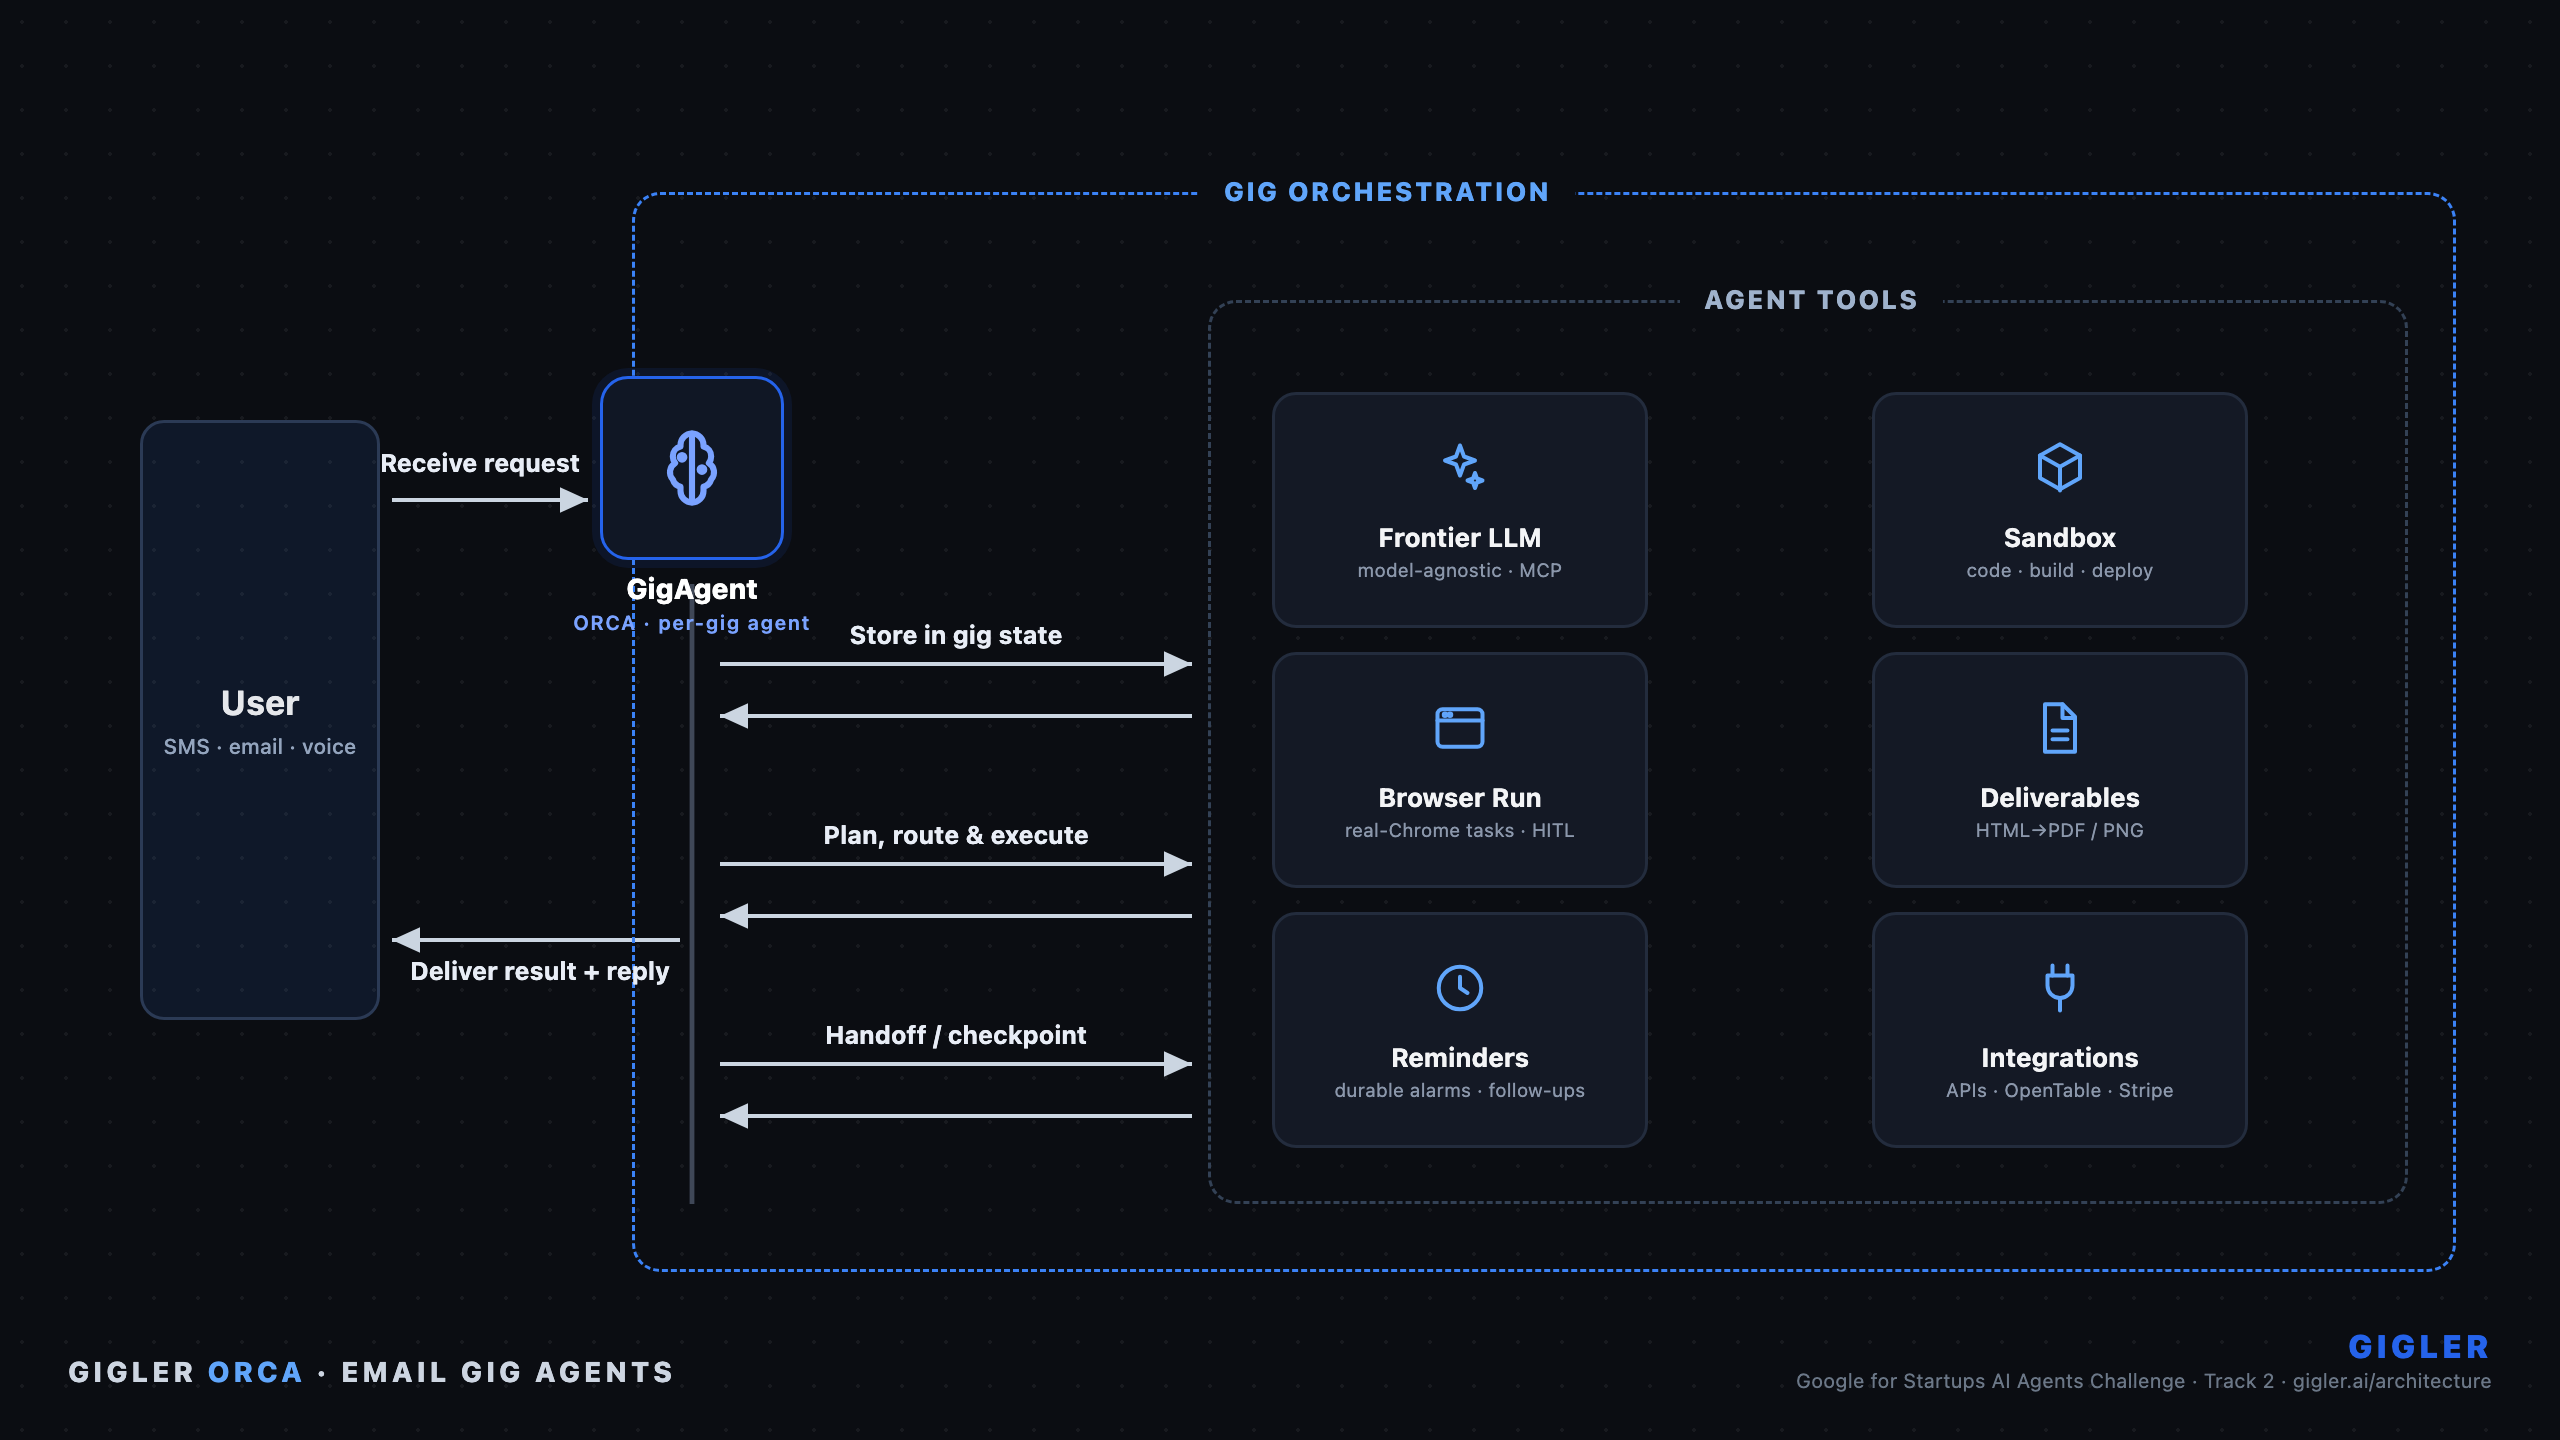
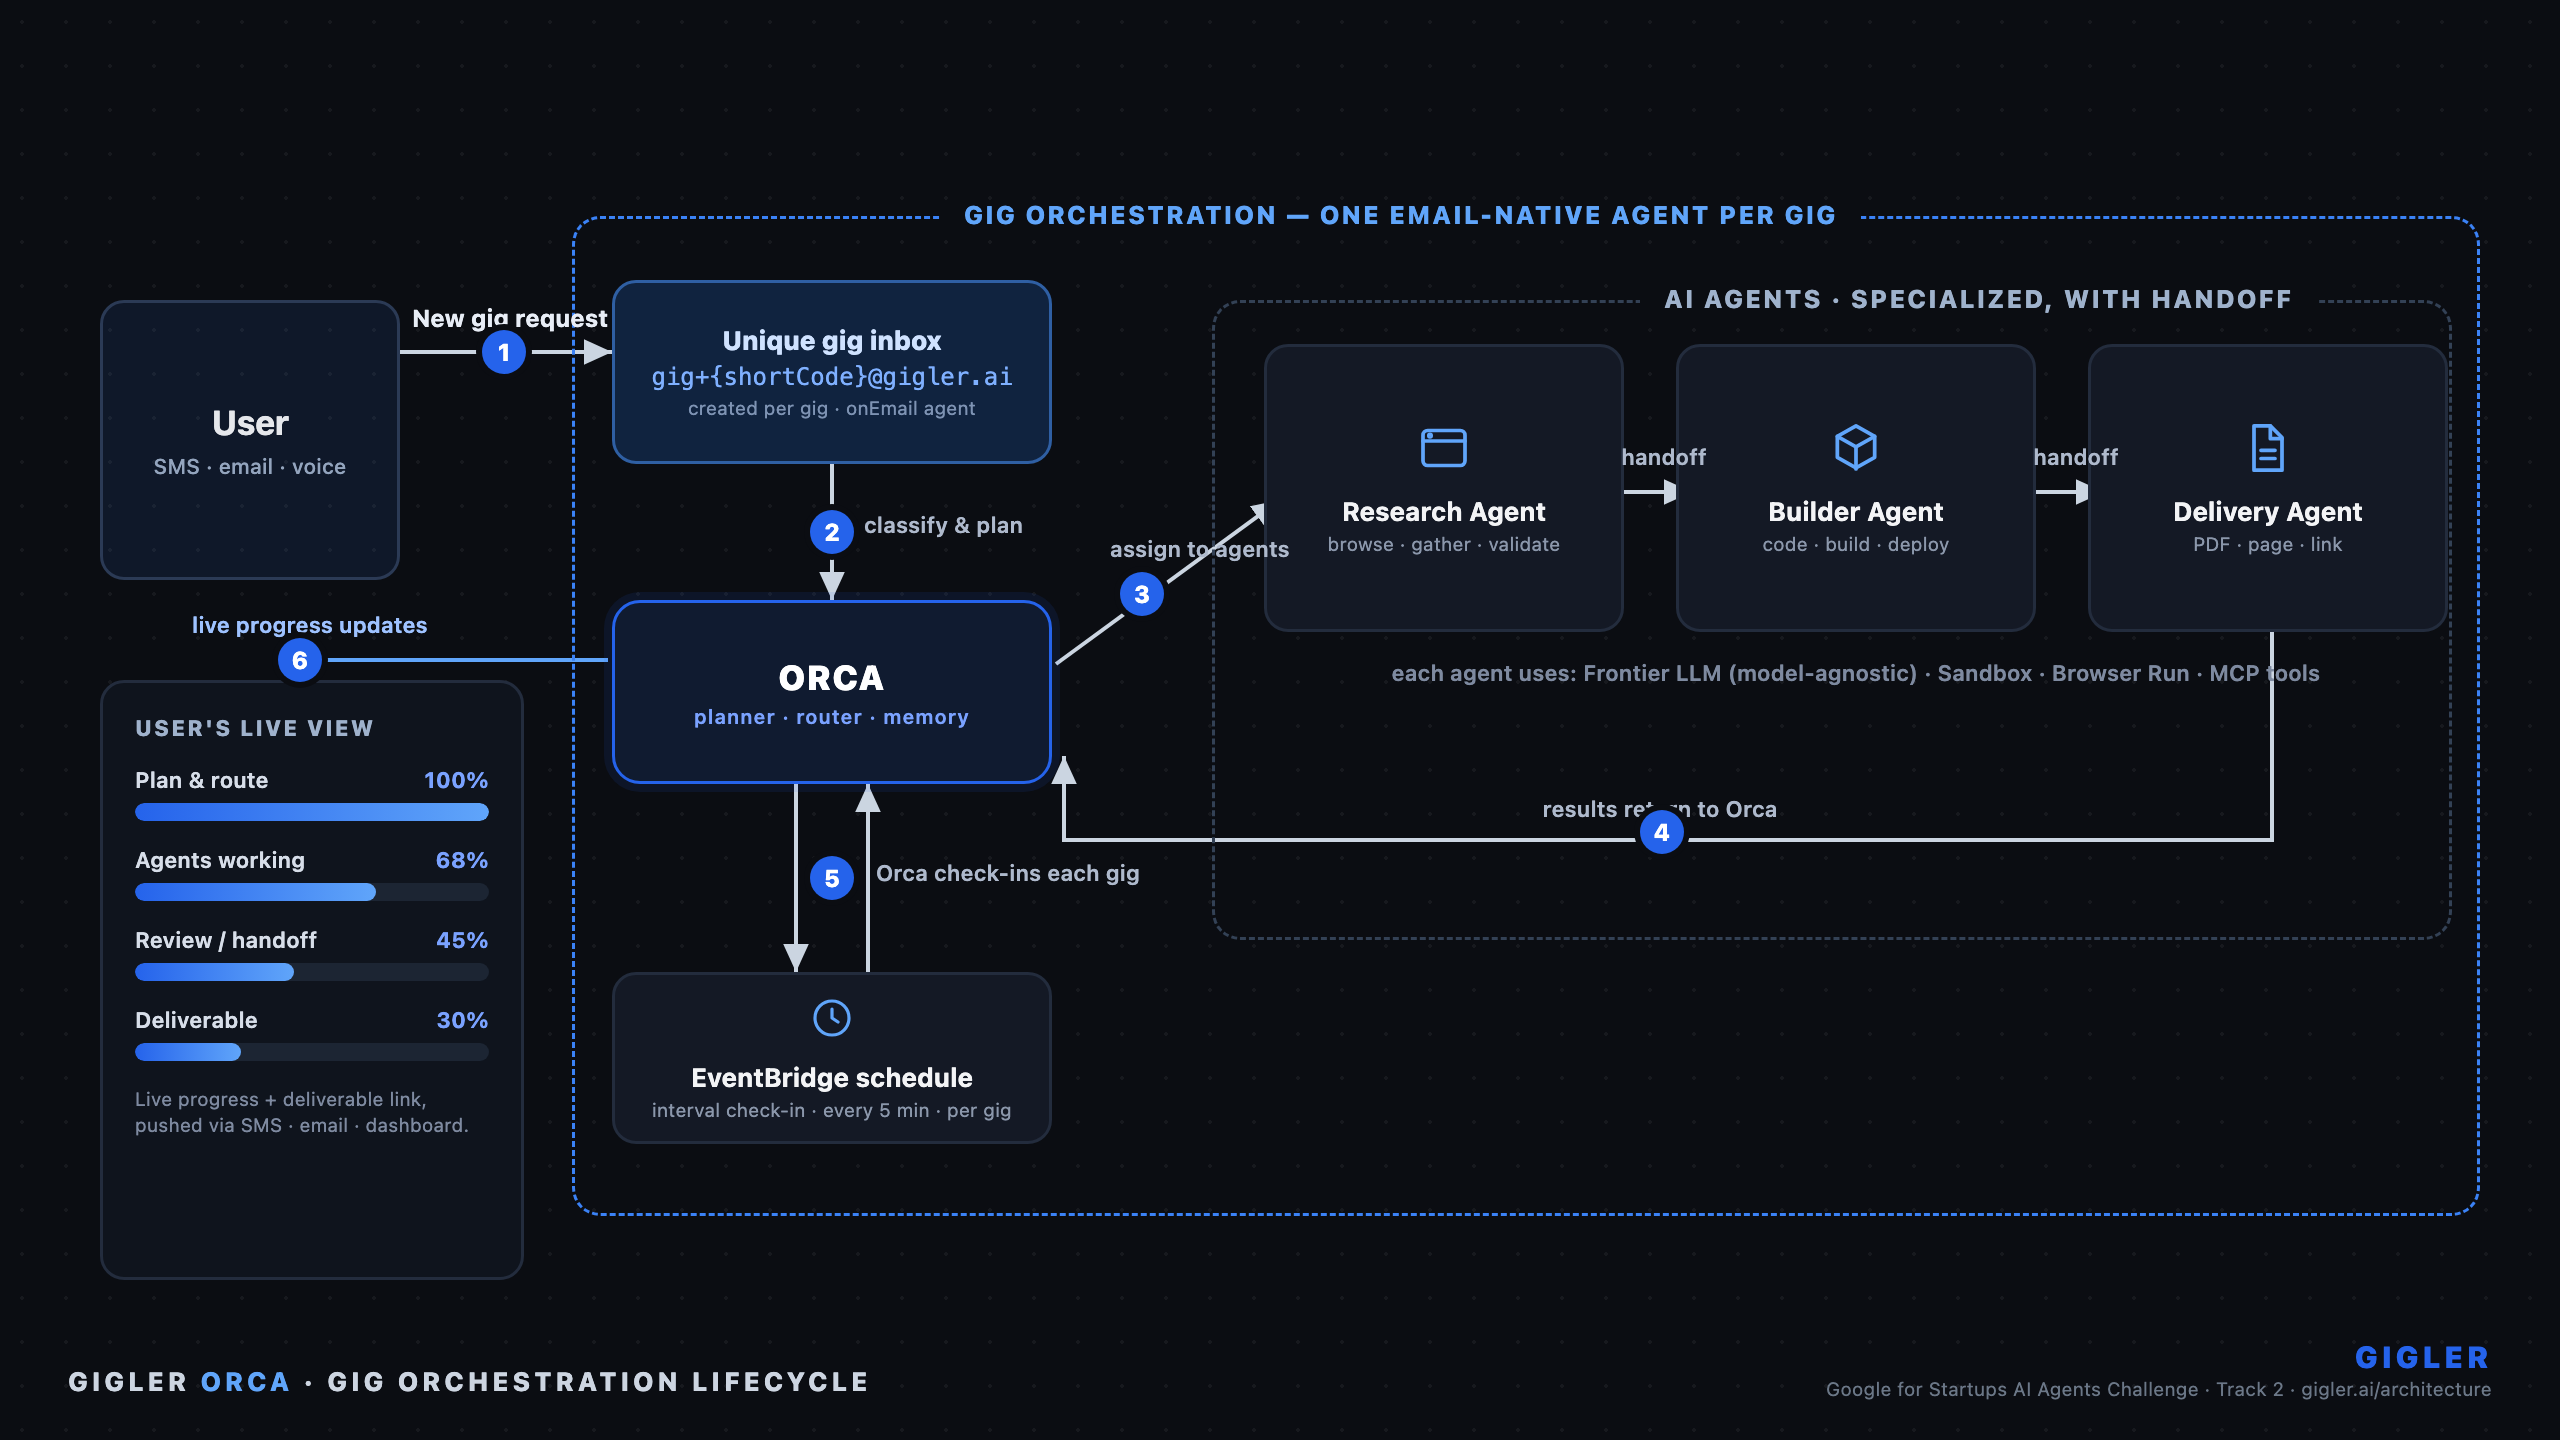
Detail the technical diagram with the full gig orchestration lifecycle
Show the end-to-end flow: new gig request -> unique per-gig email inbox ->
Orca classifies, plans & assigns -> specialized AI agents with handoff
(Research -> Builder -> Delivery) -> results return to Orca -> EventBridge
interval check-ins per gig -> live progress bars + deliverable to the user.

diff --git a/architecture/gigler-orca-tech-diagram.html b/architecture/gigler-orca-tech-diagram.html
@@ -2,7 +2,7 @@
 <html lang="en">
 <head>
 <meta charset="UTF-8">
-<title>Gigler Orca — Email Gig Agents Flow</title>
+<title>Gigler Orca — Gig Orchestration Lifecycle</title>
 <style>
   @page { size: 13.333in 7.5in; margin: 0; }
   * { margin: 0; padding: 0; box-sizing: border-box; -webkit-print-color-adjust: exact; print-color-adjust: exact; }
@@ -10,151 +10,169 @@
   .mono { font-family: "SF Mono", Menlo, Consolas, monospace; }
 
   .stage {
-    position: relative;
-    width: 1280px; height: 720px;
+    position: relative; width: 1280px; height: 720px;
     background-color: #0b0d12;
-    background-image: radial-gradient(rgba(255,255,255,0.055) 1px, transparent 1px);
+    background-image: radial-gradient(rgba(255,255,255,0.05) 1px, transparent 1px);
     background-size: 22px 22px;
-    color: #e5e7eb;
-    overflow: hidden;
+    color: #e5e7eb; overflow: hidden;
   }
+  svg.wires { position: absolute; left: 0; top: 0; width: 1280px; height: 720px; }
 
   .grp { position: absolute; border: 1.6px dashed #3b82f6; border-radius: 14px; }
-  .grp-title { position: absolute; padding: 0 12px; background: #0b0d12; font-size: 13px; font-weight: 800; letter-spacing: 1.2px; text-transform: uppercase; color: #60a5fa; }
+  .grp-title { position: absolute; padding: 0 12px; background: #0b0d12; font-size: 12.5px; font-weight: 800; letter-spacing: 1.1px; text-transform: uppercase; color: #60a5fa; }
 
-  .userbox {
-    position: absolute; border-radius: 12px;
-    background: rgba(59,130,246,0.10); border: 1.5px solid #2b3a55;
-    display: flex; align-items: center; justify-content: center;
-    font-size: 17px; font-weight: 700; color: #e5e7eb; letter-spacing: 0.3px; text-align: center;
-  }
-  .userbox .sub { display:block; font-size: 10.5px; font-weight: 500; color: #93a4bd; margin-top: 6px; letter-spacing: 0; }
+  .box { position: absolute; border-radius: 12px; background: #141925; border: 1.5px solid #232c3d; display: flex; flex-direction: column; align-items: center; justify-content: center; text-align: center; }
+  .box .ic { margin-bottom: 7px; }
+  .box .lab { font-size: 13px; font-weight: 700; color: #f3f4f6; line-height: 1.15; }
+  .box .sub { font-size: 9.5px; color: #8b97ab; margin-top: 3px; line-height: 1.25; }
 
-  .tile {
-    position: absolute; border-radius: 12px;
-    background: #141925; border: 1.5px solid #232c3d;
-    display: flex; flex-direction: column; align-items: center; justify-content: center; text-align: center;
-  }
-  .tile .ic { margin-bottom: 9px; }
-  .tile .lab { font-size: 13px; font-weight: 700; color: #f3f4f6; line-height: 1.15; }
-  .tile .sub { font-size: 9.5px; color: #8b97ab; margin-top: 3px; line-height: 1.2; }
+  .userbox { position: absolute; border-radius: 12px; background: rgba(59,130,246,0.10); border: 1.5px solid #2b3a55; display: flex; flex-direction: column; align-items: center; justify-content: center; text-align: center; }
+  .userbox .lab { font-size: 17px; font-weight: 700; color: #e5e7eb; }
+  .userbox .sub { font-size: 10.5px; font-weight: 500; color: #93a4bd; margin-top: 6px; }
 
-  .agent {
-    position: absolute; border-radius: 14px;
-    background: #101725; border: 1.6px solid #2563eb;
-    display: flex; align-items: center; justify-content: center;
-    box-shadow: 0 0 0 4px rgba(37,99,235,0.10);
-  }
-  .agent-label { position: absolute; text-align: center; font-size: 14px; font-weight: 800; color: #fff; }
-  .agent-label .sub { display:block; font-size: 10px; font-weight: 600; color: #7aa2ff; margin-top: 3px; letter-spacing: 0.6px; }
+  .emailnode { position: absolute; border-radius: 12px; background: #10233f; border: 1.6px solid #2f5fa3; display: flex; flex-direction: column; align-items: center; justify-content: center; text-align: center; }
+  .emailnode .lab { font-size: 13px; font-weight: 800; color: #cfe2ff; }
+  .emailnode .addr { font-size: 12px; color: #7fb0ff; margin-top: 4px; }
+  .emailnode .sub { font-size: 9.5px; color: #7e93b3; margin-top: 3px; }
 
-  .albl { position: absolute; text-align: center; font-size: 12.5px; font-weight: 700; color: #e8edf6; }
+  .orca { position: absolute; border-radius: 14px; background: #101b30; border: 1.8px solid #2563eb; box-shadow: 0 0 0 4px rgba(37,99,235,0.10); display: flex; flex-direction: column; align-items: center; justify-content: center; text-align: center; }
+  .orca .lab { font-size: 17px; font-weight: 900; color: #fff; letter-spacing: 1px; }
+  .orca .sub { font-size: 10px; font-weight: 600; color: #7aa2ff; margin-top: 4px; letter-spacing: 0.4px; }
 
-  .fl { position: absolute; left: 34px; bottom: 26px; font-size: 14px; font-weight: 800; letter-spacing: 2px; color: #cdd5e1; }
+  /* progress panel */
+  .panel { position: absolute; border-radius: 12px; background: #0f141d; border: 1.5px solid #232c3d; padding: 16px 16px 14px; }
+  .panel .ttl { font-size: 11px; font-weight: 800; letter-spacing: 1px; text-transform: uppercase; color: #9fb2cc; margin-bottom: 13px; }
+  .prow { margin-bottom: 13px; }
+  .prow .top { display: flex; justify-content: space-between; font-size: 11px; margin-bottom: 5px; }
+  .prow .nm { color: #d7dee9; font-weight: 600; }
+  .prow .pct { color: #7aa2ff; font-weight: 700; }
+  .track { height: 9px; border-radius: 6px; background: #1c2533; overflow: hidden; }
+  .fill { height: 100%; border-radius: 6px; background: linear-gradient(90deg, #2563eb, #60a5fa); }
+  .panel .cap { font-size: 9.5px; color: #7e8aa0; margin-top: 4px; line-height: 1.35; }
+
+  .albl { position: absolute; text-align: center; font-size: 12px; font-weight: 700; color: #e8edf6; }
+  .albl.sm { font-size: 11px; font-weight: 600; color: #aeb9cc; }
+
+  .badge { position: absolute; width: 22px; height: 22px; border-radius: 50%; background: #2563eb; color: #fff; font-size: 12px; font-weight: 800; display: flex; align-items: center; justify-content: center; box-shadow: 0 0 0 3px #0b0d12; }
+
+  .fl { position: absolute; left: 34px; bottom: 22px; font-size: 13px; font-weight: 800; letter-spacing: 2px; color: #cdd5e1; }
   .fl span { color: #60a5fa; }
-  .fr { position: absolute; right: 34px; bottom: 24px; text-align: right; }
-  .fr .bm { font-size: 16px; font-weight: 900; letter-spacing: 2px; color: #2563eb; }
-  .fr .mt { font-size: 10px; color: #6b7787; margin-top: 2px; }
-
-  svg.wires { position: absolute; left: 0; top: 0; width: 1280px; height: 720px; }
+  .fr { position: absolute; right: 34px; bottom: 20px; text-align: right; }
+  .fr .bm { font-size: 15px; font-weight: 900; letter-spacing: 2px; color: #2563eb; }
+  .fr .mt { font-size: 9.5px; color: #6b7787; margin-top: 2px; }
 </style>
 </head>
 <body>
 <div class="stage">
 
-  <!-- WIRES -->
   <svg class="wires" viewBox="0 0 1280 720">
     <defs>
-      <marker id="ah" markerWidth="9" markerHeight="9" refX="7" refY="3.2" orient="auto">
-        <path d="M0,0 L7,3.2 L0,6.4 Z" fill="#cbd5e1"/>
-      </marker>
+      <marker id="ah" markerWidth="9" markerHeight="9" refX="7" refY="3.2" orient="auto"><path d="M0,0 L7,3.2 L0,6.4 Z" fill="#cbd5e1"/></marker>
+      <marker id="ahb" markerWidth="9" markerHeight="9" refX="7" refY="3.2" orient="auto"><path d="M0,0 L7,3.2 L0,6.4 Z" fill="#60a5fa"/></marker>
     </defs>
     <g stroke="#cbd5e1" stroke-width="2" fill="none">
-      <!-- User -> Agent (receive) -->
-      <line x1="196" y1="250" x2="294" y2="250" marker-end="url(#ah)"/>
-      <!-- Agent/orchestration -> User (deliver) -->
-      <line x1="340" y1="470" x2="196" y2="470" marker-end="url(#ah)"/>
-
-      <!-- lifeline -->
-      <line x1="346" y1="292" x2="346" y2="602" stroke="#3f4757" stroke-width="2.4"/>
-
-      <!-- round-trip 1 -->
-      <line x1="360" y1="332" x2="596" y2="332" marker-end="url(#ah)"/>
-      <line x1="596" y1="358" x2="360" y2="358" marker-end="url(#ah)"/>
-      <!-- round-trip 2 -->
-      <line x1="360" y1="432" x2="596" y2="432" marker-end="url(#ah)"/>
-      <line x1="596" y1="458" x2="360" y2="458" marker-end="url(#ah)"/>
-      <!-- round-trip 3 -->
-      <line x1="360" y1="532" x2="596" y2="532" marker-end="url(#ah)"/>
-      <line x1="596" y1="558" x2="360" y2="558" marker-end="url(#ah)"/>
+      <!-- 1 User -> Email -->
+      <line x1="200" y1="176" x2="306" y2="176" marker-end="url(#ah)"/>
+      <!-- 2 Email -> Orca -->
+      <line x1="416" y1="232" x2="416" y2="300" marker-end="url(#ah)"/>
+      <!-- 3 Orca -> Agent A (assign) -->
+      <line x1="528" y1="332" x2="640" y2="250" marker-end="url(#ah)"/>
+      <!-- handoff A->B -->
+      <line x1="812" y1="246" x2="846" y2="246" marker-end="url(#ah)"/>
+      <!-- handoff B->C -->
+      <line x1="1018" y1="246" x2="1052" y2="246" marker-end="url(#ah)"/>
+      <!-- 4 results back: C -> down -> Orca -->
+      <polyline points="1136,316 1136,420 532,420 532,378" marker-end="url(#ah)"/>
+      <!-- 5 Orca <-> EventBridge loop -->
+      <line x1="398" y1="392" x2="398" y2="486" marker-end="url(#ah)"/>
+      <line x1="434" y1="486" x2="434" y2="392" marker-end="url(#ah)"/>
+    </g>
+    <g stroke="#60a5fa" stroke-width="2" fill="none">
+      <!-- 6 Orca -> progress panel top edge (live progress) -->
+      <polyline points="304,330 150,330 150,338" marker-end="url(#ahb)"/>
     </g>
   </svg>
 
-  <!-- GROUP: Gig Orchestration -->
-  <div class="grp" style="left:316px; top:96px; width:912px; height:540px;"></div>
-  <div class="grp-title" style="left:600px; top:88px;">Gig Orchestration</div>
+  <!-- GROUP: per-gig orchestration -->
+  <div class="grp" style="left:286px; top:108px; width:954px; height:500px;"></div>
+  <div class="grp-title" style="left:470px; top:100px;">Gig Orchestration — one email-native agent per gig</div>
 
-  <!-- GROUP: Agent Tools -->
-  <div class="grp" style="left:604px; top:150px; width:600px; height:452px; border-color:#334155;"></div>
-  <div class="grp-title" style="left:840px; top:142px; color:#9fb2cc; border-color:#334155;">Agent Tools</div>
+  <!-- GROUP: AI agents -->
+  <div class="grp" style="left:606px; top:150px; width:620px; height:320px; border-color:#334155;"></div>
+  <div class="grp-title" style="left:820px; top:142px; color:#9fb2cc; border-color:#334155;">AI Agents · specialized, with handoff</div>
 
   <!-- USER -->
-  <div class="userbox" style="left:70px; top:210px; width:120px; height:300px;">
-    <div>User<span class="sub">SMS · email · voice</span></div>
+  <div class="userbox" style="left:50px; top:150px; width:150px; height:140px;">
+    <div class="lab">User</div><div class="sub">SMS · email · voice</div>
   </div>
 
-  <!-- AGENT -->
-  <div class="agent" style="left:300px; top:188px; width:92px; height:92px;">
-    <svg width="46" height="46" viewBox="0 0 24 24" fill="none" stroke="#7aa2ff" stroke-width="1.6" stroke-linecap="round" stroke-linejoin="round">
-      <path d="M12 3a3 3 0 0 0-3 3v.4A2.6 2.6 0 0 0 7 9a2.6 2.6 0 0 0 .6 1.7A2.8 2.8 0 0 0 7 15a2.8 2.8 0 0 0 2 1.9V18a3 3 0 0 0 6 0v-1.1A2.8 2.8 0 0 0 17 15a2.8 2.8 0 0 0-.6-4.3A2.6 2.6 0 0 0 17 9a2.6 2.6 0 0 0-2-2.6V6a3 3 0 0 0-3-3Z"/>
-      <path d="M12 3v18"/><circle cx="9.4" cy="9.2" r="0.6" fill="#7aa2ff"/><circle cx="14.6" cy="12.4" r="0.6" fill="#7aa2ff"/>
-    </svg>
+  <!-- PROGRESS PANEL -->
+  <div class="panel" style="left:50px; top:340px; width:212px; height:300px;">
+    <div class="ttl">User's live view</div>
+    <div class="prow"><div class="top"><span class="nm">Plan &amp; route</span><span class="pct">100%</span></div><div class="track"><div class="fill" style="width:100%"></div></div></div>
+    <div class="prow"><div class="top"><span class="nm">Agents working</span><span class="pct">68%</span></div><div class="track"><div class="fill" style="width:68%"></div></div></div>
+    <div class="prow"><div class="top"><span class="nm">Review / handoff</span><span class="pct">45%</span></div><div class="track"><div class="fill" style="width:45%"></div></div></div>
+    <div class="prow"><div class="top"><span class="nm">Deliverable</span><span class="pct">30%</span></div><div class="track"><div class="fill" style="width:30%"></div></div></div>
+    <div class="cap">Live progress + deliverable link, pushed via SMS · email · dashboard.</div>
   </div>
-  <div class="agent-label" style="left:274px; top:286px; width:144px;">GigAgent<span class="sub">ORCA · per-gig agent</span></div>
 
-  <!-- top/bottom arrow labels -->
-  <div class="albl" style="left:140px; top:224px; width:200px;">Receive request</div>
-  <div class="albl" style="left:140px; top:478px; width:260px;">Deliver result + reply</div>
+  <!-- UNIQUE EMAIL NODE -->
+  <div class="emailnode" style="left:306px; top:140px; width:220px; height:92px;">
+    <div class="lab">Unique gig inbox</div>
+    <div class="addr mono">gig+{shortCode}@gigler.ai</div>
+    <div class="sub">created per gig · onEmail agent</div>
+  </div>
 
-  <!-- round-trip labels -->
-  <div class="albl" style="left:368px; top:310px; width:220px;">Store in gig state</div>
-  <div class="albl" style="left:368px; top:410px; width:220px;">Plan, route &amp; execute</div>
-  <div class="albl" style="left:368px; top:510px; width:220px;">Handoff / checkpoint</div>
+  <!-- ORCA -->
+  <div class="orca" style="left:306px; top:300px; width:220px; height:92px;">
+    <div class="lab">ORCA</div><div class="sub">planner · router · memory</div>
+  </div>
 
-  <!-- TOOL TILES -->
-  <div class="tile" style="left:636px; top:196px; width:188px; height:118px;">
-    <span class="ic"><svg width="30" height="30" viewBox="0 0 24 24" fill="none" stroke="#60a5fa" stroke-width="1.6" stroke-linecap="round" stroke-linejoin="round">
-      <path d="M12 3l1.6 4.4L18 9l-4.4 1.6L12 15l-1.6-4.4L6 9l4.4-1.6L12 3z"/><path d="M18 14l.8 2.2L21 17l-2.2.8L18 20l-.8-2.2L15 17l2.2-.8L18 14z"/></svg></span>
-    <div class="lab">Frontier LLM</div><div class="sub">model-agnostic · MCP</div>
+  <!-- EVENTBRIDGE -->
+  <div class="box" style="left:306px; top:486px; width:220px; height:86px;">
+    <span class="ic"><svg width="24" height="24" viewBox="0 0 24 24" fill="none" stroke="#60a5fa" stroke-width="1.6" stroke-linecap="round" stroke-linejoin="round"><circle cx="12" cy="12" r="8.5"/><path d="M12 7.5V12l3 2"/></svg></span>
+    <div class="lab">EventBridge schedule</div><div class="sub">interval check-in · every 5 min · per gig</div>
   </div>
-  <div class="tile" style="left:936px; top:196px; width:188px; height:118px;">
-    <span class="ic"><svg width="30" height="30" viewBox="0 0 24 24" fill="none" stroke="#60a5fa" stroke-width="1.6" stroke-linecap="round" stroke-linejoin="round">
-      <path d="M12 2.5l8 4.5v9l-8 4.5-8-4.5v-9l8-4.5z"/><path d="M4 7l8 4.5L20 7"/><path d="M12 11.5V21"/></svg></span>
-    <div class="lab">Sandbox</div><div class="sub">code · build · deploy</div>
+
+  <!-- AGENT A -->
+  <div class="box" style="left:632px; top:172px; width:180px; height:144px;">
+    <span class="ic"><svg width="28" height="28" viewBox="0 0 24 24" fill="none" stroke="#60a5fa" stroke-width="1.6" stroke-linecap="round" stroke-linejoin="round"><rect x="3" y="4.5" width="18" height="15" rx="2"/><path d="M3 9h18"/><circle cx="6" cy="6.7" r="0.5" fill="#60a5fa"/></svg></span>
+    <div class="lab">Research Agent</div><div class="sub">browse · gather · validate</div>
   </div>
-  <div class="tile" style="left:636px; top:326px; width:188px; height:118px;">
-    <span class="ic"><svg width="30" height="30" viewBox="0 0 24 24" fill="none" stroke="#60a5fa" stroke-width="1.6" stroke-linecap="round" stroke-linejoin="round">
-      <rect x="3" y="4.5" width="18" height="15" rx="2"/><path d="M3 9h18"/><circle cx="6" cy="6.7" r="0.5" fill="#60a5fa"/><circle cx="8" cy="6.7" r="0.5" fill="#60a5fa"/></svg></span>
-    <div class="lab">Browser Run</div><div class="sub">real-Chrome tasks · HITL</div>
+  <!-- AGENT B -->
+  <div class="box" style="left:838px; top:172px; width:180px; height:144px;">
+    <span class="ic"><svg width="28" height="28" viewBox="0 0 24 24" fill="none" stroke="#60a5fa" stroke-width="1.6" stroke-linecap="round" stroke-linejoin="round"><path d="M12 2.5l8 4.5v9l-8 4.5-8-4.5v-9l8-4.5z"/><path d="M4 7l8 4.5L20 7"/><path d="M12 11.5V21"/></svg></span>
+    <div class="lab">Builder Agent</div><div class="sub">code · build · deploy</div>
   </div>
-  <div class="tile" style="left:936px; top:326px; width:188px; height:118px;">
-    <span class="ic"><svg width="30" height="30" viewBox="0 0 24 24" fill="none" stroke="#60a5fa" stroke-width="1.6" stroke-linecap="round" stroke-linejoin="round">
-      <path d="M6 2.5h7l5 5v14H6z"/><path d="M13 2.5V8h5"/><path d="M9 13h6M9 16.5h6"/></svg></span>
-    <div class="lab">Deliverables</div><div class="sub">HTML→PDF / PNG</div>
+  <!-- AGENT C -->
+  <div class="box" style="left:1044px; top:172px; width:180px; height:144px;">
+    <span class="ic"><svg width="28" height="28" viewBox="0 0 24 24" fill="none" stroke="#60a5fa" stroke-width="1.6" stroke-linecap="round" stroke-linejoin="round"><path d="M6 2.5h7l5 5v14H6z"/><path d="M13 2.5V8h5"/><path d="M9 13h6M9 16.5h6"/></svg></span>
+    <div class="lab">Delivery Agent</div><div class="sub">PDF · page · link</div>
   </div>
-  <div class="tile" style="left:636px; top:456px; width:188px; height:118px;">
-    <span class="ic"><svg width="30" height="30" viewBox="0 0 24 24" fill="none" stroke="#60a5fa" stroke-width="1.6" stroke-linecap="round" stroke-linejoin="round">
-      <circle cx="12" cy="12" r="8.5"/><path d="M12 7.5V12l3 2"/></svg></span>
-    <div class="lab">Reminders</div><div class="sub">durable alarms · follow-ups</div>
-  </div>
-  <div class="tile" style="left:936px; top:456px; width:188px; height:118px;">
-    <span class="ic"><svg width="30" height="30" viewBox="0 0 24 24" fill="none" stroke="#60a5fa" stroke-width="1.6" stroke-linecap="round" stroke-linejoin="round">
-      <path d="M9 3v4M15 3v4"/><path d="M7 7h10v4a5 5 0 0 1-10 0V7z"/><path d="M12 16v5"/></svg></span>
-    <div class="lab">Integrations</div><div class="sub">APIs · OpenTable · Stripe</div>
-  </div>
+
+  <!-- tools caption inside agents group -->
+  <div class="albl sm" style="left:632px; top:330px; width:592px; color:#7e8aa0;">each agent uses: Frontier LLM (model-agnostic) · Sandbox · Browser Run · MCP tools</div>
+
+  <!-- arrow labels -->
+  <div class="albl" style="left:170px; top:152px; width:170px;">New gig request</div>
+  <div class="albl sm" style="left:432px; top:256px; width:160px; text-align:left;">classify &amp; plan</div>
+  <div class="albl sm" style="left:540px; top:268px; width:120px;">assign to agents</div>
+  <div class="albl sm" style="left:792px; top:222px; width:80px;">handoff</div>
+  <div class="albl sm" style="left:998px; top:222px; width:80px;">handoff</div>
+  <div class="albl sm" style="left:700px; top:398px; width:260px;">results return to Orca</div>
+  <div class="albl sm" style="left:438px; top:430px; width:210px; text-align:left;">Orca check-ins each gig</div>
+  <div class="albl sm" style="left:60px; top:306px; width:190px; color:#9ec2ff;">live progress updates</div>
+
+  <!-- step badges -->
+  <div class="badge" style="left:241px; top:165px;">1</div>
+  <div class="badge" style="left:405px; top:255px;">2</div>
+  <div class="badge" style="left:560px; top:286px;">3</div>
+  <div class="badge" style="left:820px; top:405px;">4</div>
+  <div class="badge" style="left:405px; top:428px;">5</div>
+  <div class="badge" style="left:139px; top:319px;">6</div>
 
   <!-- footer -->
-  <div class="fl">GIGLER <span>ORCA</span> · EMAIL GIG AGENTS</div>
+  <div class="fl">GIGLER <span>ORCA</span> · GIG ORCHESTRATION LIFECYCLE</div>
   <div class="fr">
     <div class="bm">GIGLER</div>
     <div class="mt">Google for Startups AI Agents Challenge · Track 2 · gigler.ai/architecture</div>